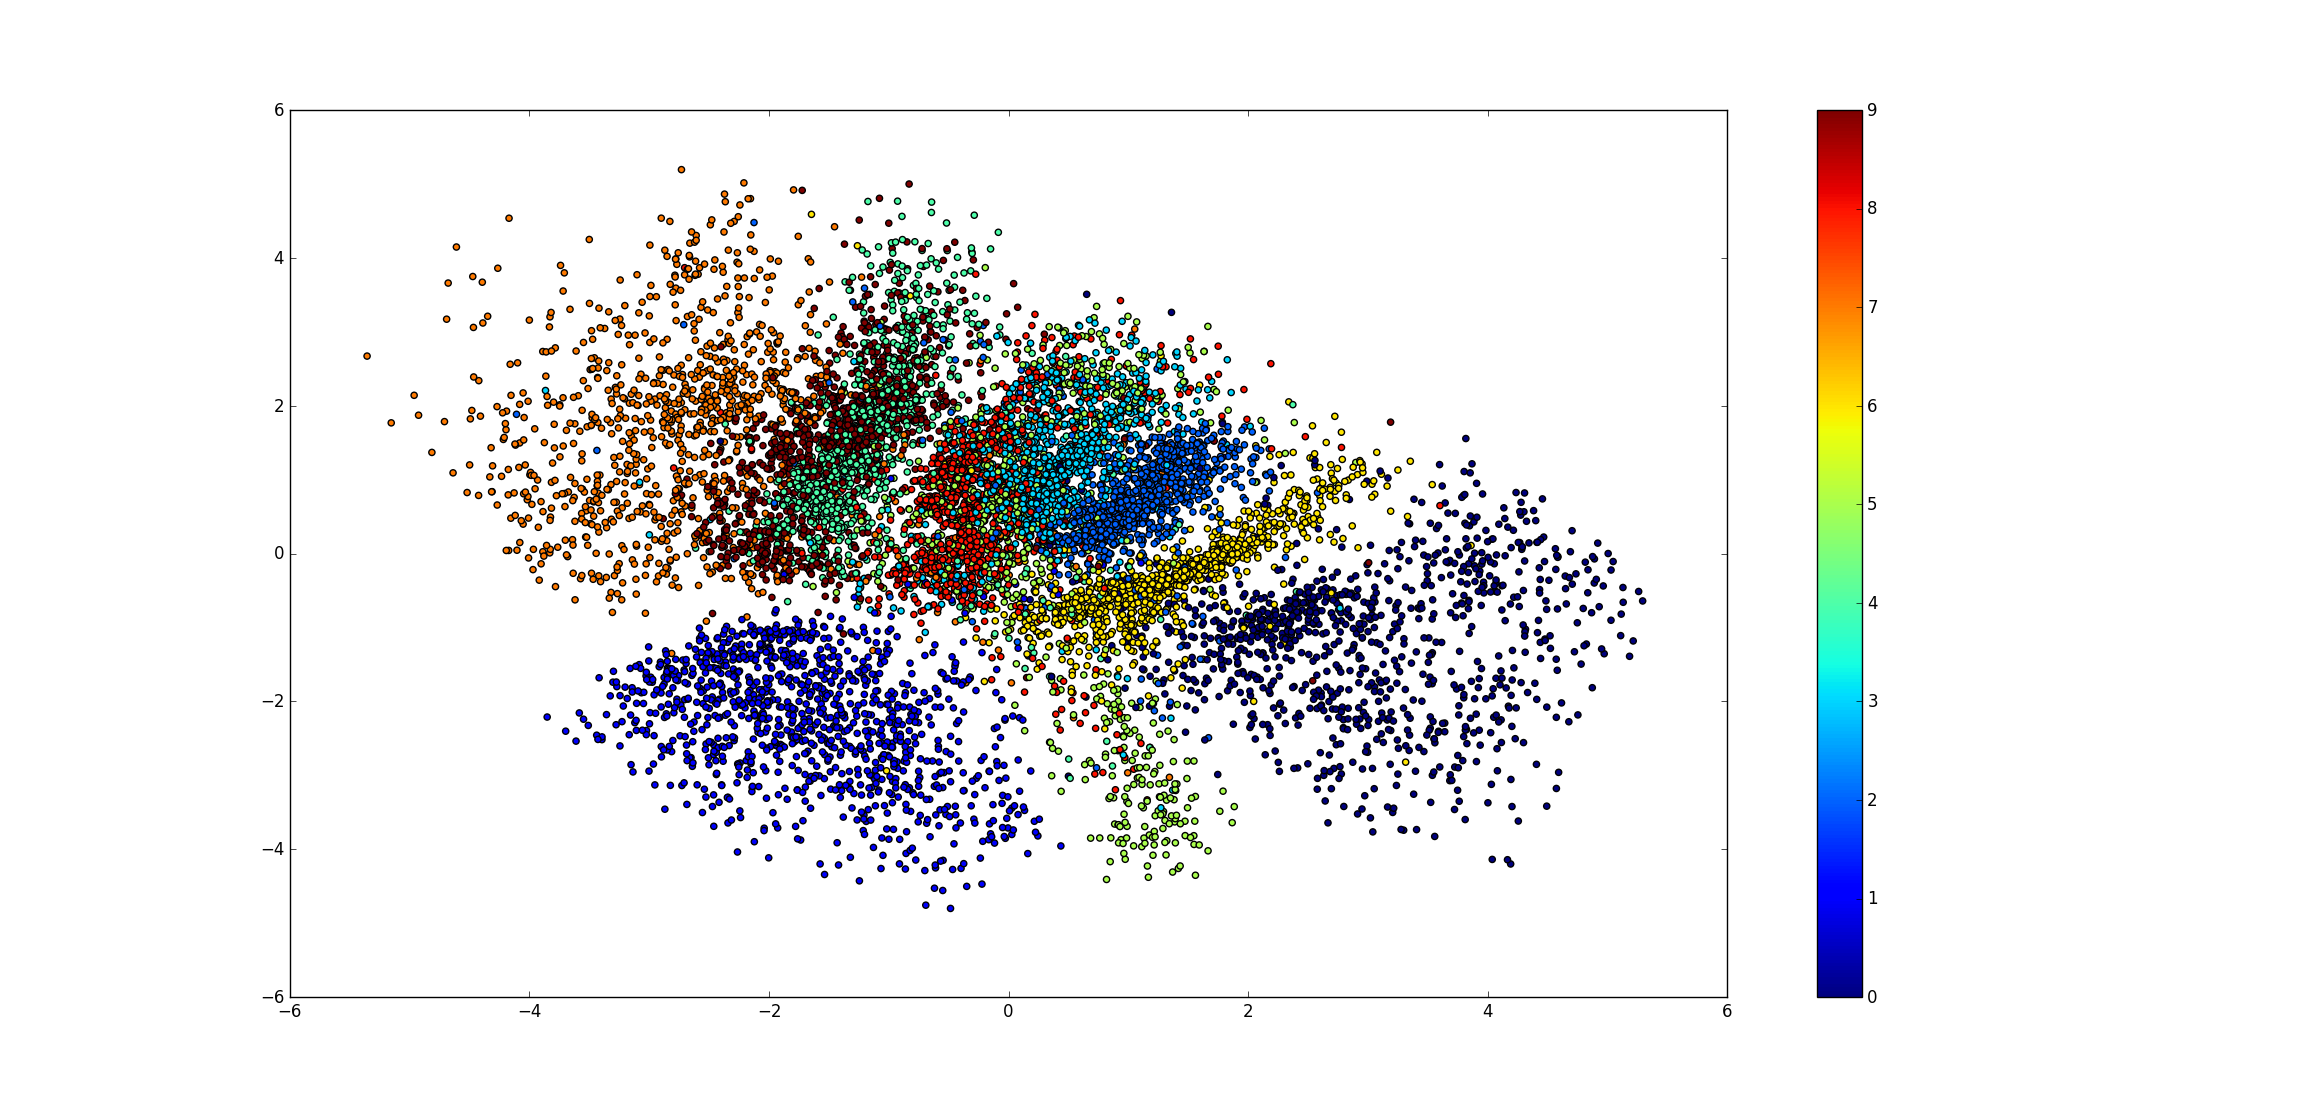
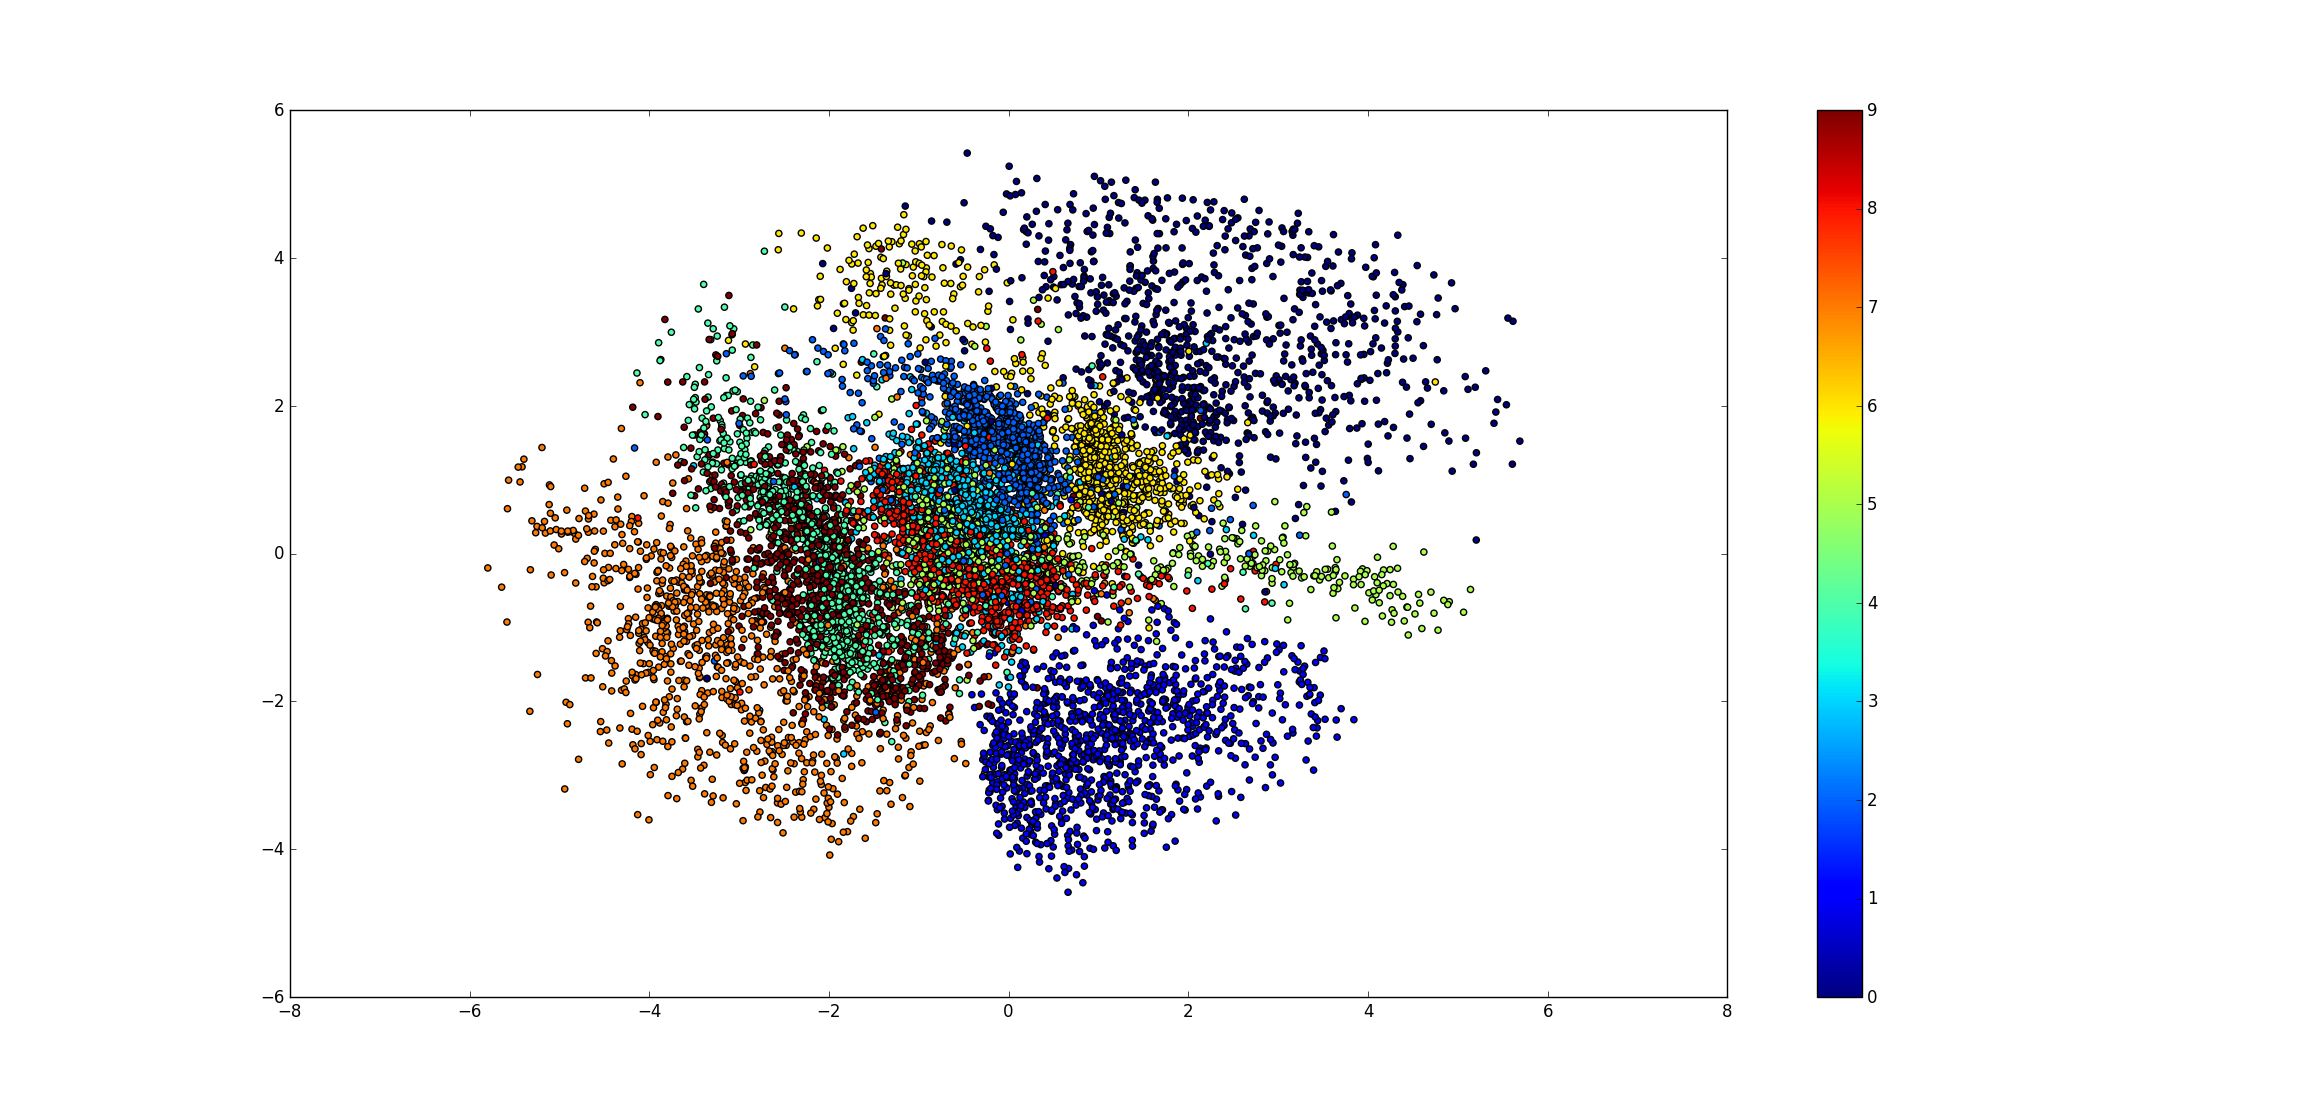
add weight decay

Changed region(s): [[0.1864, 0.1534, 0.7144, 0.7978]]

diff --git a/variational_autoencoder.py b/variational_autoencoder.py
@@ -8,6 +8,7 @@ from scipy.stats import norm
 
 from keras.layers import Input, Dense, Lambda
 from keras.models import Model
+from keras.regularizers import l2
 from keras import backend as K
 from keras import objectives
 from keras.datasets import mnist
@@ -22,11 +23,14 @@ nb_epoch = 50
 epsilon_std = 1.0
 use_loss = 'mse' # 'mse' or 'xent'
 
+decay = 1e-4 # weight decay, a.k. l2 regularization
+bias = True
+
 ## Encoder
 x = Input(batch_shape=(batch_size, n))
-h_encoded = Dense(hidden_dim, activation='tanh')(x)
-z_mean = Dense(m)(h_encoded)
-z_log_var = Dense(m)(h_encoded)
+h_encoded = Dense(hidden_dim, W_regularizer=l2(decay), b_regularizer=l2(decay), bias=bias, activation='tanh')(x)
+z_mean = Dense(m, W_regularizer=l2(decay), b_regularizer=l2(decay), bias=bias)(h_encoded)
+z_log_var = Dense(m, W_regularizer=l2(decay), b_regularizer=l2(decay), bias=bias)(h_encoded)
 
 
 ## Sampler
@@ -39,8 +43,8 @@ def sampling(args):
 z = Lambda(sampling, output_shape=(m,))([z_mean, z_log_var])
 
 # we instantiate these layers separately so as to reuse them later
-decoder_h = Dense(hidden_dim, activation='tanh')
-decoder_mean = Dense(n, activation='sigmoid')
+decoder_h = Dense(hidden_dim, W_regularizer=l2(decay), b_regularizer=l2(decay), bias=bias, activation='tanh')
+decoder_mean = Dense(n, W_regularizer=l2(decay), b_regularizer=l2(decay), bias=bias, activation='sigmoid')
 
 ## Dcoder
 h_decoded = decoder_h(z)
